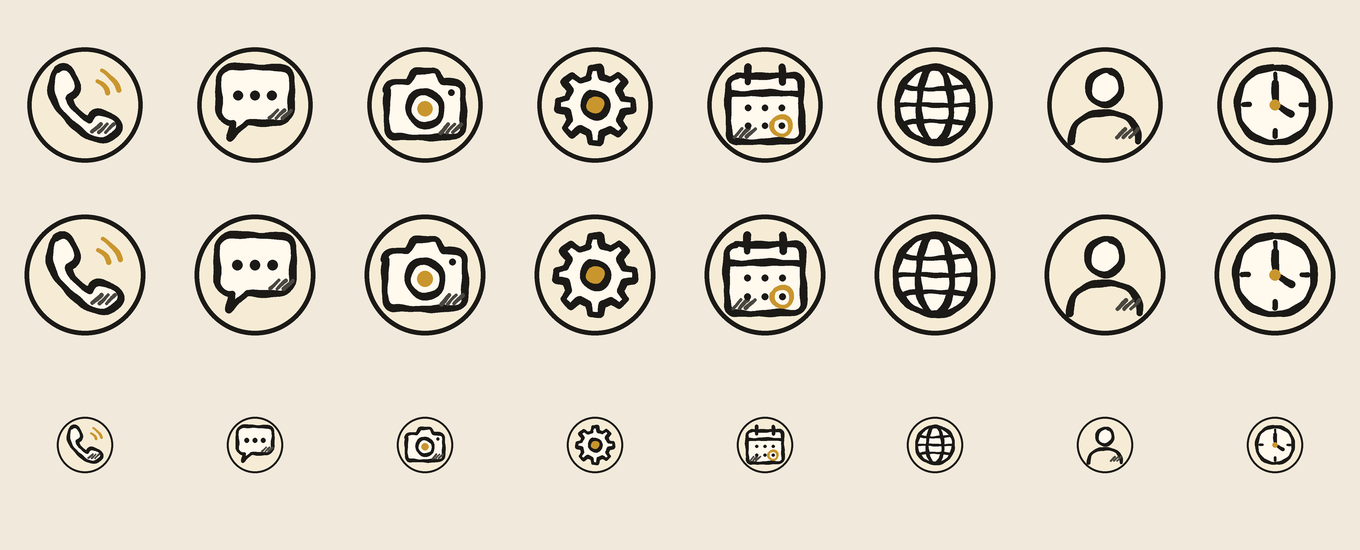
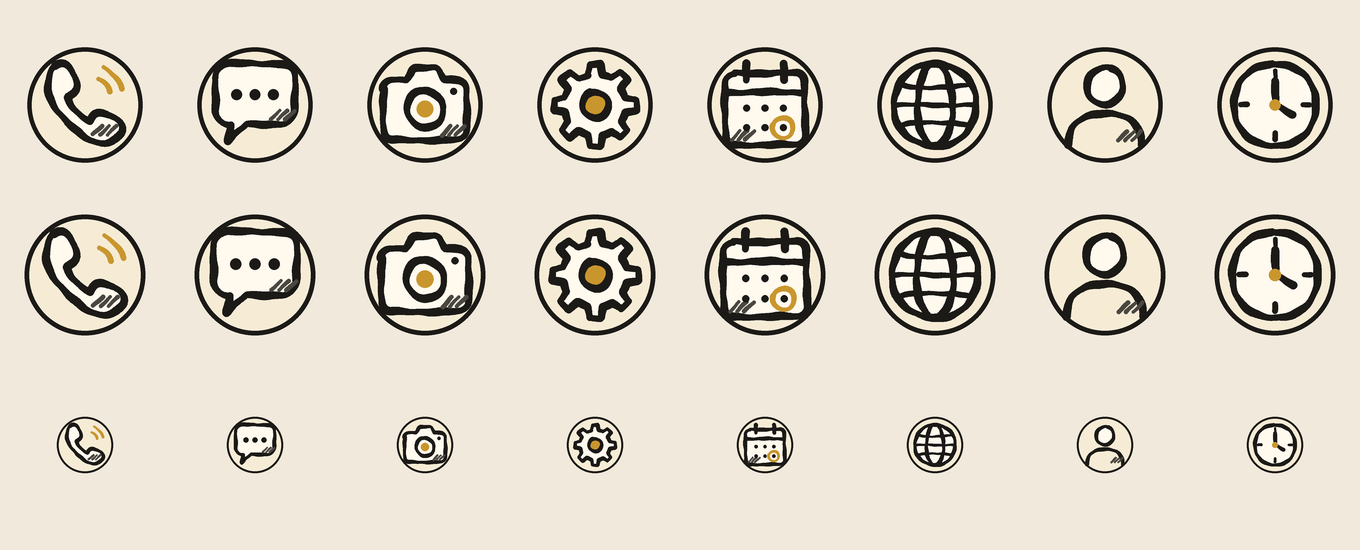
Ink sketch symbols: your default apps get them too; symbols drawn larger

diff --git a/app/src/main/java/com/rr/numio/launcher/sketch/SketchKind.kt b/app/src/main/java/com/rr/numio/launcher/sketch/SketchKind.kt
@@ -2,7 +2,10 @@ package com.rr.numio.launcher.sketch
 
 import android.content.Context
 import android.content.Intent
+import android.content.pm.ApplicationInfo
 import android.content.pm.PackageManager
+import android.provider.Telephony
+import android.telecom.TelecomManager
 import android.net.Uri
 import android.provider.AlarmClock
 import android.provider.MediaStore
@@ -53,9 +56,13 @@ sealed interface Layer {
  * (the default dialer, the default SMS app, the camera…), found by asking Android, so no
  * app or package names are assumed.
  *
- * Only apps that came with the phone get these shared symbols. An app you installed
- * yourself (another browser, a different SMS app) keeps its own look until it gets its
- * own drawing, so it never loses its identity to a generic globe or bubble.
+ * Which app counts, for each job:
+ *  1. the app you chose as the default (your Phone, SMS or browser app), even one you
+ *     installed yourself, such as Fossify Phone or Fennec;
+ *  2. with no default chosen, the phone's own preinstalled app for that job;
+ *  3. with neither, the only app that does the job, if there is just one.
+ * Other apps that can do the same job (a second calendar, say) keep their own look, so
+ * you can still tell them apart.
  */
 object SketchRoles {
 
@@ -84,17 +91,45 @@ object SketchRoles {
         SketchKind.Clock to listOf(Intent(AlarmClock.ACTION_SHOW_ALARMS)),
     )
 
-    /** For each job, the phone's own (preinstalled) apps that do it. */
+    /** One app that can do a job: its package and whether it came with the phone. */
+    data class Handler(val packageName: String, val preinstalled: Boolean)
+
+    /**
+     * The apps that get a job's symbol: your chosen default, else the preinstalled ones,
+     * else the only one there is. "android" (the app chooser) is never a choice.
+     */
+    fun choose(defaults: List<String?>, handlers: List<Handler>): Set<String> {
+        val chosen = defaults.filterNotNull().filter { it.isNotEmpty() && it != "android" }.toSet()
+        if (chosen.isNotEmpty()) return chosen
+        val real = handlers.filter { it.packageName != "android" }
+        val preinstalled = real.filter { it.preinstalled }.map { it.packageName }.toSet()
+        if (preinstalled.isNotEmpty()) return preinstalled
+        val all = real.map { it.packageName }.toSet()
+        return if (all.size == 1) all else emptySet()
+    }
+
     fun detect(context: Context): Map<SketchKind, Set<String>> {
         val pm = context.packageManager
-        return intents().mapValues { (_, list) ->
-            list.flatMap { intent ->
+        fun safe(block: () -> String?): String? = try { block() } catch (e: Exception) { null }
+        return intents().mapValues { (kind, list) ->
+            val defaults = list.map { intent ->
+                safe { pm.resolveActivity(intent, PackageManager.MATCH_DEFAULT_ONLY)?.activityInfo?.packageName }
+            } + when (kind) {
+                SketchKind.Phone -> listOf(safe { context.getSystemService(TelecomManager::class.java)?.defaultDialerPackage })
+                SketchKind.Messages -> listOf(safe { Telephony.Sms.getDefaultSmsPackage(context) })
+                else -> emptyList()
+            }
+            val handlers = list.flatMap { intent ->
                 try {
-                    pm.queryIntentActivities(intent, PackageManager.MATCH_SYSTEM_ONLY).map { it.activityInfo.packageName }
+                    pm.queryIntentActivities(intent, 0).map {
+                        val flags = it.activityInfo.applicationInfo.flags
+                        Handler(it.activityInfo.packageName, flags and ApplicationInfo.FLAG_SYSTEM != 0)
+                    }
                 } catch (e: Exception) {
                     emptyList()
                 }
-            }.filter { it != "android" }.toSet()
+            }
+            choose(defaults, handlers)
         }
     }
 

diff --git a/app/src/test/java/com/rr/numio/launcher/sketch/SketchRolesTest.kt b/app/src/test/java/com/rr/numio/launcher/sketch/SketchRolesTest.kt
@@ -44,6 +44,35 @@ class SketchRolesTest {
         assertEquals(SketchKind.Phone, SketchRoles.kindFor(pkg, "Galaxy", roles))
     }
 
+    private fun h(p: String, pre: Boolean) = SketchRoles.Handler(p, pre)
+
+    @Test fun yourDefaultAppGetsTheSymbolEvenIfYouInstalledIt() {
+        // Fossify Phone set as the dialer: it wins over the preinstalled one
+        assertEquals(
+            setOf("org.fossify.phone"),
+            SketchRoles.choose(listOf("org.fossify.phone"), listOf(h("org.fossify.phone", false), h("com.samsung.android.dialer", true))),
+        )
+        // Fennec as the default browser
+        assertEquals(setOf("org.mozilla.fennec_fdroid"), SketchRoles.choose(listOf("org.mozilla.fennec_fdroid", null), emptyList()))
+    }
+
+    @Test fun withoutADefaultThePreinstalledAppsCount() {
+        assertEquals(
+            setOf("com.sec.android.app.camera"),
+            SketchRoles.choose(listOf("android"), listOf(h("com.sec.android.app.camera", true), h("net.sourceforge.opencamera", false))),
+        )
+    }
+
+    @Test fun withNeitherOnlyASingleAppCounts() {
+        // one calendar app installed: it gets the symbol
+        assertEquals(setOf("org.fossify.calendar"), SketchRoles.choose(listOf(null), listOf(h("org.fossify.calendar", false))))
+        // three calendars and no default: none is singled out, each keeps its own look
+        assertEquals(
+            emptySet<String>(),
+            SketchRoles.choose(listOf("android"), listOf(h("org.fossify.calendar", false), h("com.goodwy.calendar", false), h("com.rr.numio.calendar", false))),
+        )
+    }
+
     @Test fun everyJobHasAWayToBeFound() {
         val intents = SketchRoles.intents()
         for (k in SketchKind.entries) assertTrue("$k has no intent", intents[k].orEmpty().isNotEmpty())

diff --git a/app/src/main/java/com/rr/numio/launcher/sketch/SketchPen.kt b/app/src/main/java/com/rr/numio/launcher/sketch/SketchPen.kt
@@ -20,7 +20,7 @@ import kotlin.math.sin
 object SketchPen {
 
     /** The 56-unit content box spans this many disc radii. */
-    const val SCALE = 1.42f
+    const val SCALE = 1.55f
     const val INK_W = 4.4f
     const val THIN_W = 3.0f
     const val HATCH_W = 2.4f

diff --git a/art/sketch-icons/glyphs.py b/art/sketch-icons/glyphs.py
@@ -250,7 +250,7 @@ def wobble(points, seed, amp=0.55):
     return out
 
 
-SCALE = 1.42      # the 56-unit content box spans 1.42 x the disc radius
+SCALE = 1.55      # the 56-unit content box spans 1.55 x the disc radius
 INK_W = 4.4       # outline width in grid units
 THIN_W = 3.0
 HATCH_W = 2.4
